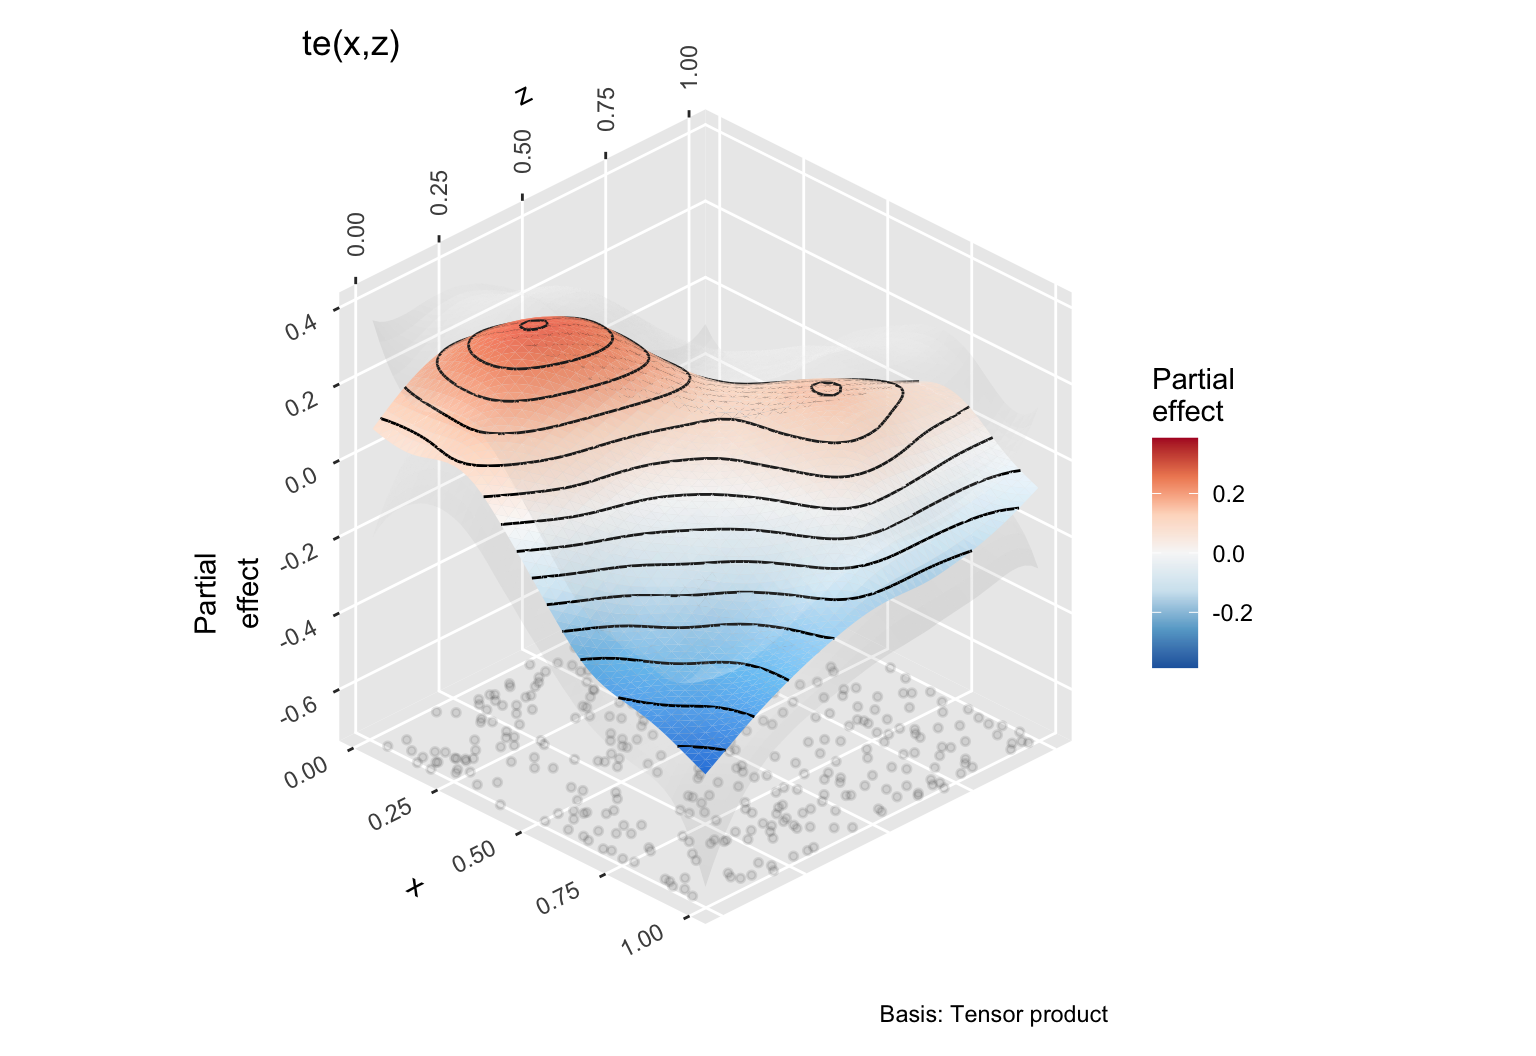
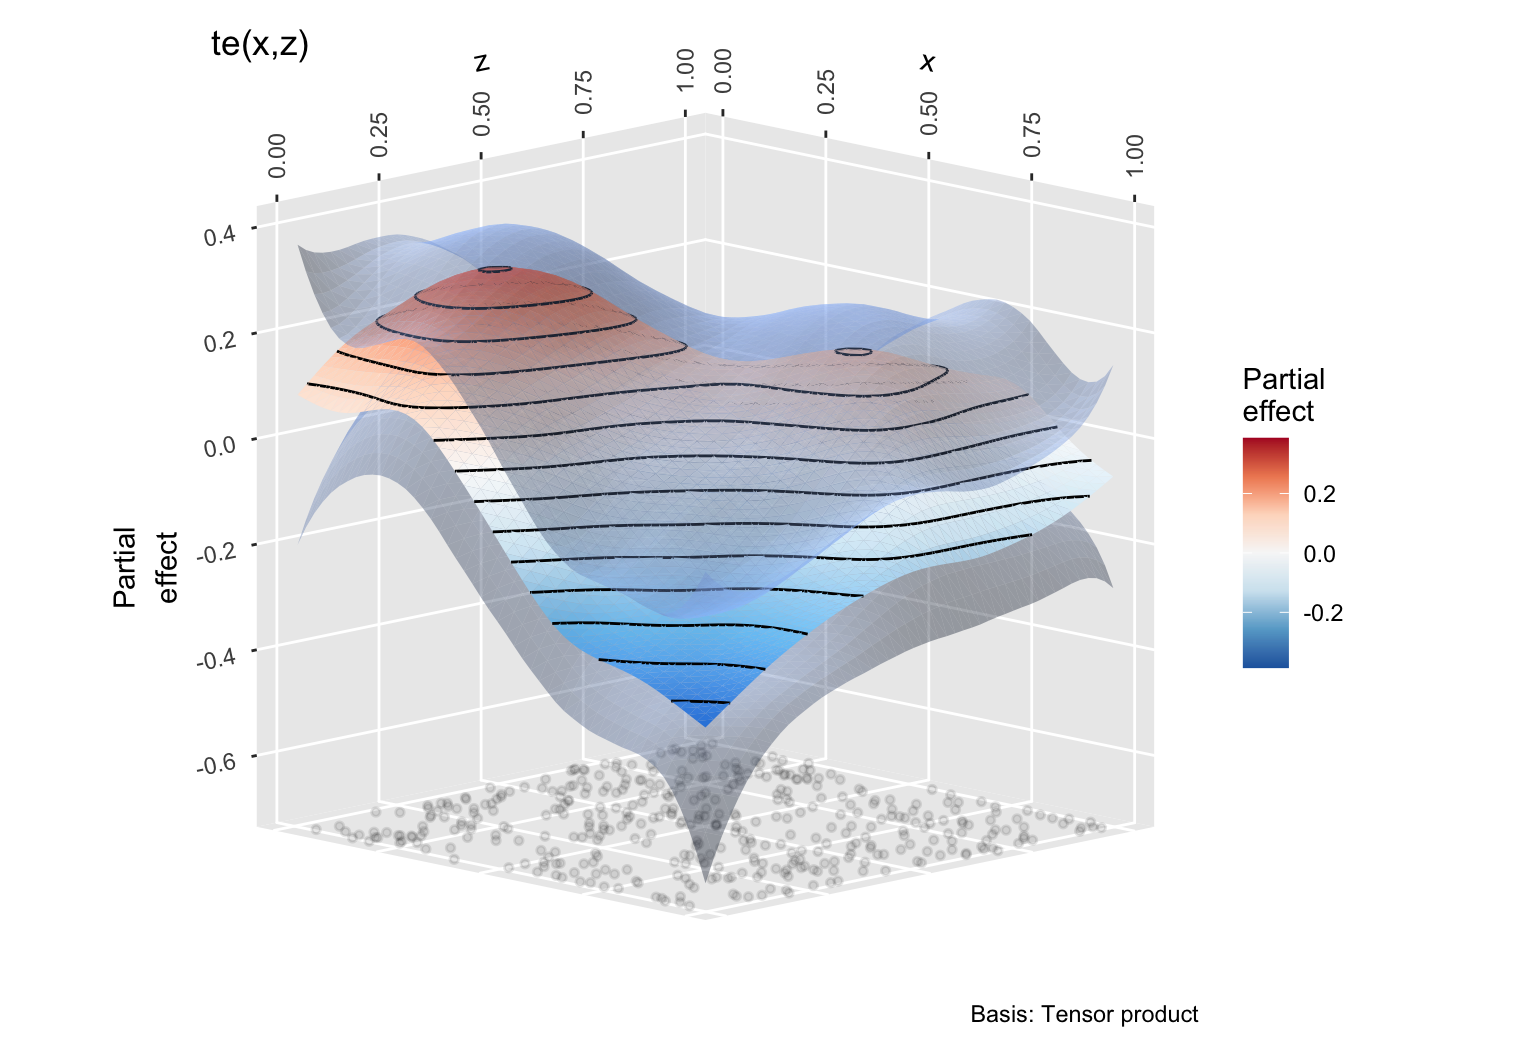
Improve visibility of 3D interval surfaces

diff --git a/_site/2026/11/23/gratia-0-12-1/index.html b/_site/2026/11/23/gratia-0-12-1/index.html
@@ -412,17 +412,21 @@ pre > code.sourceCode > span > a:first-child::before { text-decoration: underlin
 </div>
 </div>
 </div>
-<p>To see how uncertainty in the smooth changes across the grid, I’ll draw it again from the same angle with <code>ci_3d = TRUE</code>. This adds two translucent surfaces at the lower and upper pointwise interval limits.</p>
+<p>With <code>ci_3d = TRUE</code>, gratia draws two translucent surfaces at the lower and upper pointwise interval limits. I tilt the view closer to the side and use a dark blue-grey fill so the bounds stand out against the grey background.</p>
 <div class="cell">
 <div class="code-copy-outer-scaffold"><div class="sourceCode cell-code" id="cb6"><pre class="sourceCode r code-with-copy"><code class="sourceCode r"><span id="cb6-1"><a href="#cb6-1" aria-hidden="true" tabindex="-1"></a><span class="fu">draw</span>(</span>
-<span id="cb6-2"><a href="#cb6-2" aria-hidden="true" tabindex="-1"></a>  surface_fit, <span class="at">surface =</span> <span class="st">"3d"</span>, <span class="at">ci_3d =</span> <span class="cn">TRUE</span>,</span>
-<span id="cb6-3"><a href="#cb6-3" aria-hidden="true" tabindex="-1"></a>  <span class="at">surface_3d =</span> <span class="fu">list</span>(<span class="at">yaw =</span> <span class="dv">45</span>, <span class="at">persp =</span> <span class="cn">FALSE</span>)</span>
-<span id="cb6-4"><a href="#cb6-4" aria-hidden="true" tabindex="-1"></a>)</span></code></pre></div><button title="Copy to Clipboard" class="code-copy-button"><i class="bi"></i></button></div>
+<span id="cb6-2"><a href="#cb6-2" aria-hidden="true" tabindex="-1"></a>  surface_fit, <span class="at">surface =</span> <span class="st">"3d"</span>, <span class="at">ci_3d =</span> <span class="cn">TRUE</span>, <span class="at">rug =</span> <span class="cn">TRUE</span>,</span>
+<span id="cb6-3"><a href="#cb6-3" aria-hidden="true" tabindex="-1"></a>  <span class="at">surface_3d =</span> <span class="fu">list</span>(<span class="at">yaw =</span> <span class="dv">45</span>, <span class="at">roll =</span> <span class="sc">-</span><span class="dv">78</span>, <span class="at">persp =</span> <span class="cn">FALSE</span>)</span>
+<span id="cb6-4"><a href="#cb6-4" aria-hidden="true" tabindex="-1"></a>) <span class="sc">&amp;</span></span>
+<span id="cb6-5"><a href="#cb6-5" aria-hidden="true" tabindex="-1"></a>  ggplot2<span class="sc">::</span><span class="fu">theme</span>(</span>
+<span id="cb6-6"><a href="#cb6-6" aria-hidden="true" tabindex="-1"></a>    <span class="at">geom.gratia.surface.interval =</span> ggplot2<span class="sc">::</span><span class="fu">element_geom</span>(<span class="at">fill =</span> <span class="st">"#344054"</span>),</span>
+<span id="cb6-7"><a href="#cb6-7" aria-hidden="true" tabindex="-1"></a>    <span class="at">gratia.alpha.surface.interval =</span> <span class="fl">0.42</span></span>
+<span id="cb6-8"><a href="#cb6-8" aria-hidden="true" tabindex="-1"></a>  )</span></code></pre></div><button title="Copy to Clipboard" class="code-copy-button"><i class="bi"></i></button></div>
 <div class="cell-output-display">
 <div class="quarto-figure quarto-figure-center">
 <figure class="figure">
-<p><img src="index_files/figure-html/tensor-surface-3d-intervals-1.png" class="img-fluid figure-img" alt="The coloured fitted surface sits between two translucent grey surfaces that follow its shape." width="768"></p>
-<figcaption>The same fitted smooth with translucent surfaces marking the lower and upper pointwise interval limits.</figcaption>
+<p><img src="index_files/figure-html/tensor-surface-3d-intervals-1.png" class="img-fluid figure-img" alt="Blue-grey sheets sit above and below the coloured fitted surface and spread apart near the edges. Grey dots on the floor show the observation locations." width="768"></p>
+<figcaption>The fitted smooth viewed from a lower angle. The translucent blue-grey sheets mark the lower and upper pointwise interval limits.</figcaption>
 </figure>
 </div>
 </div>
